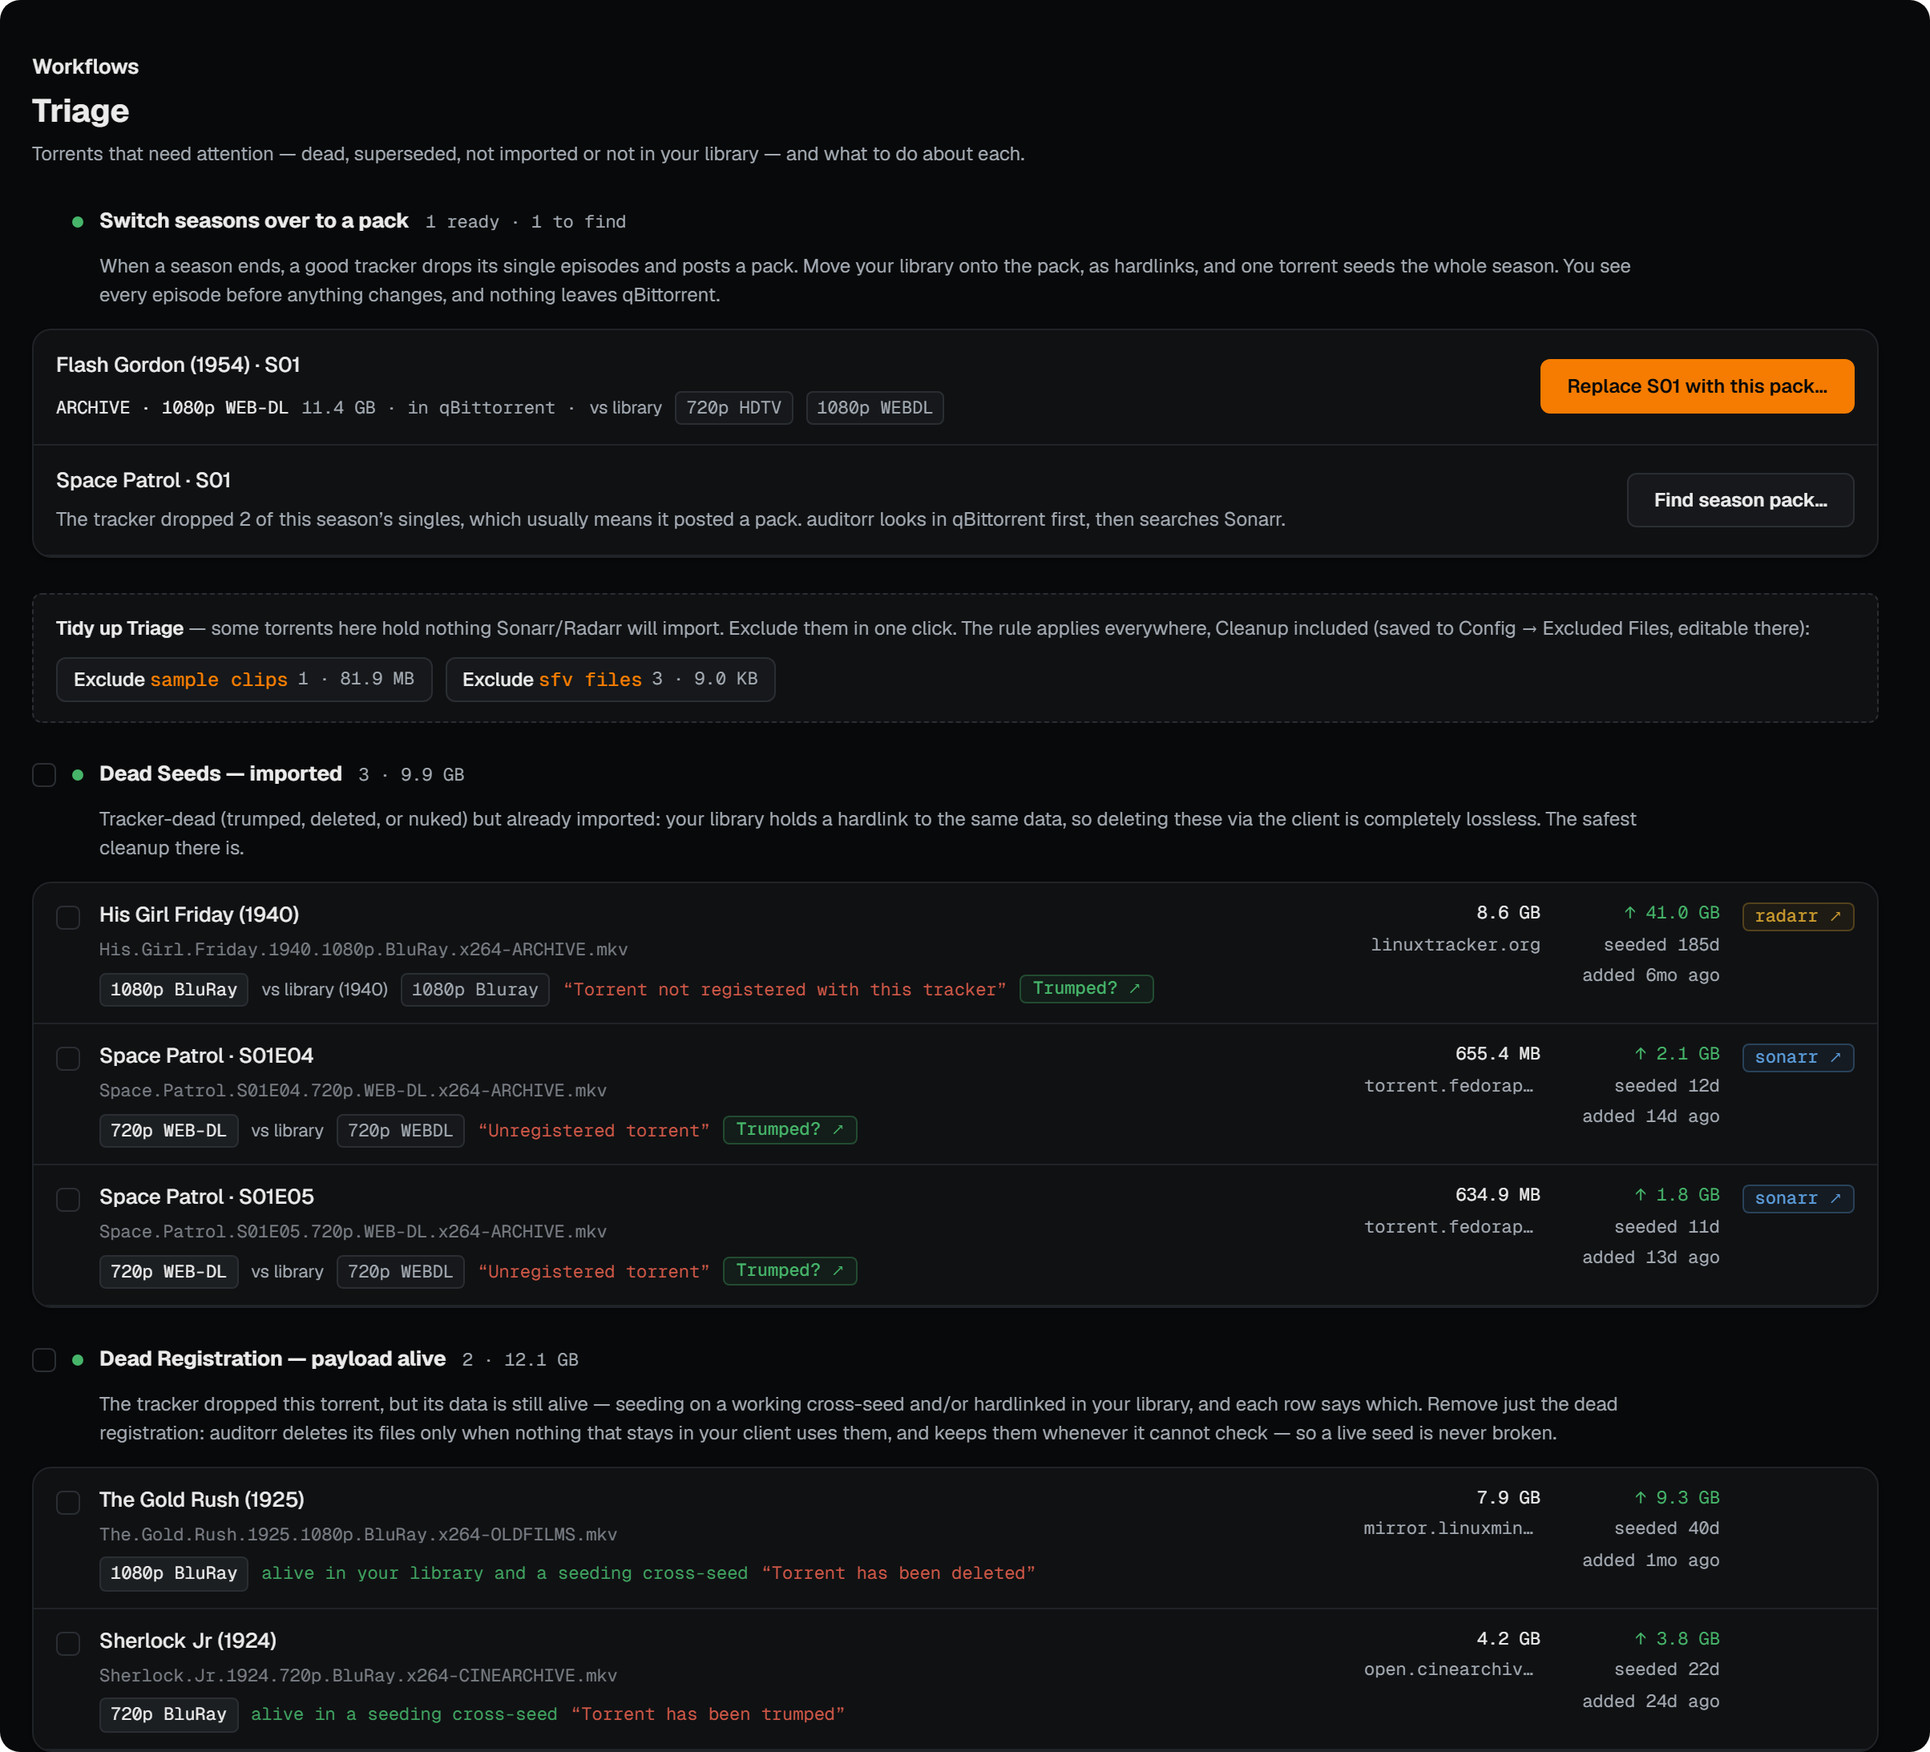
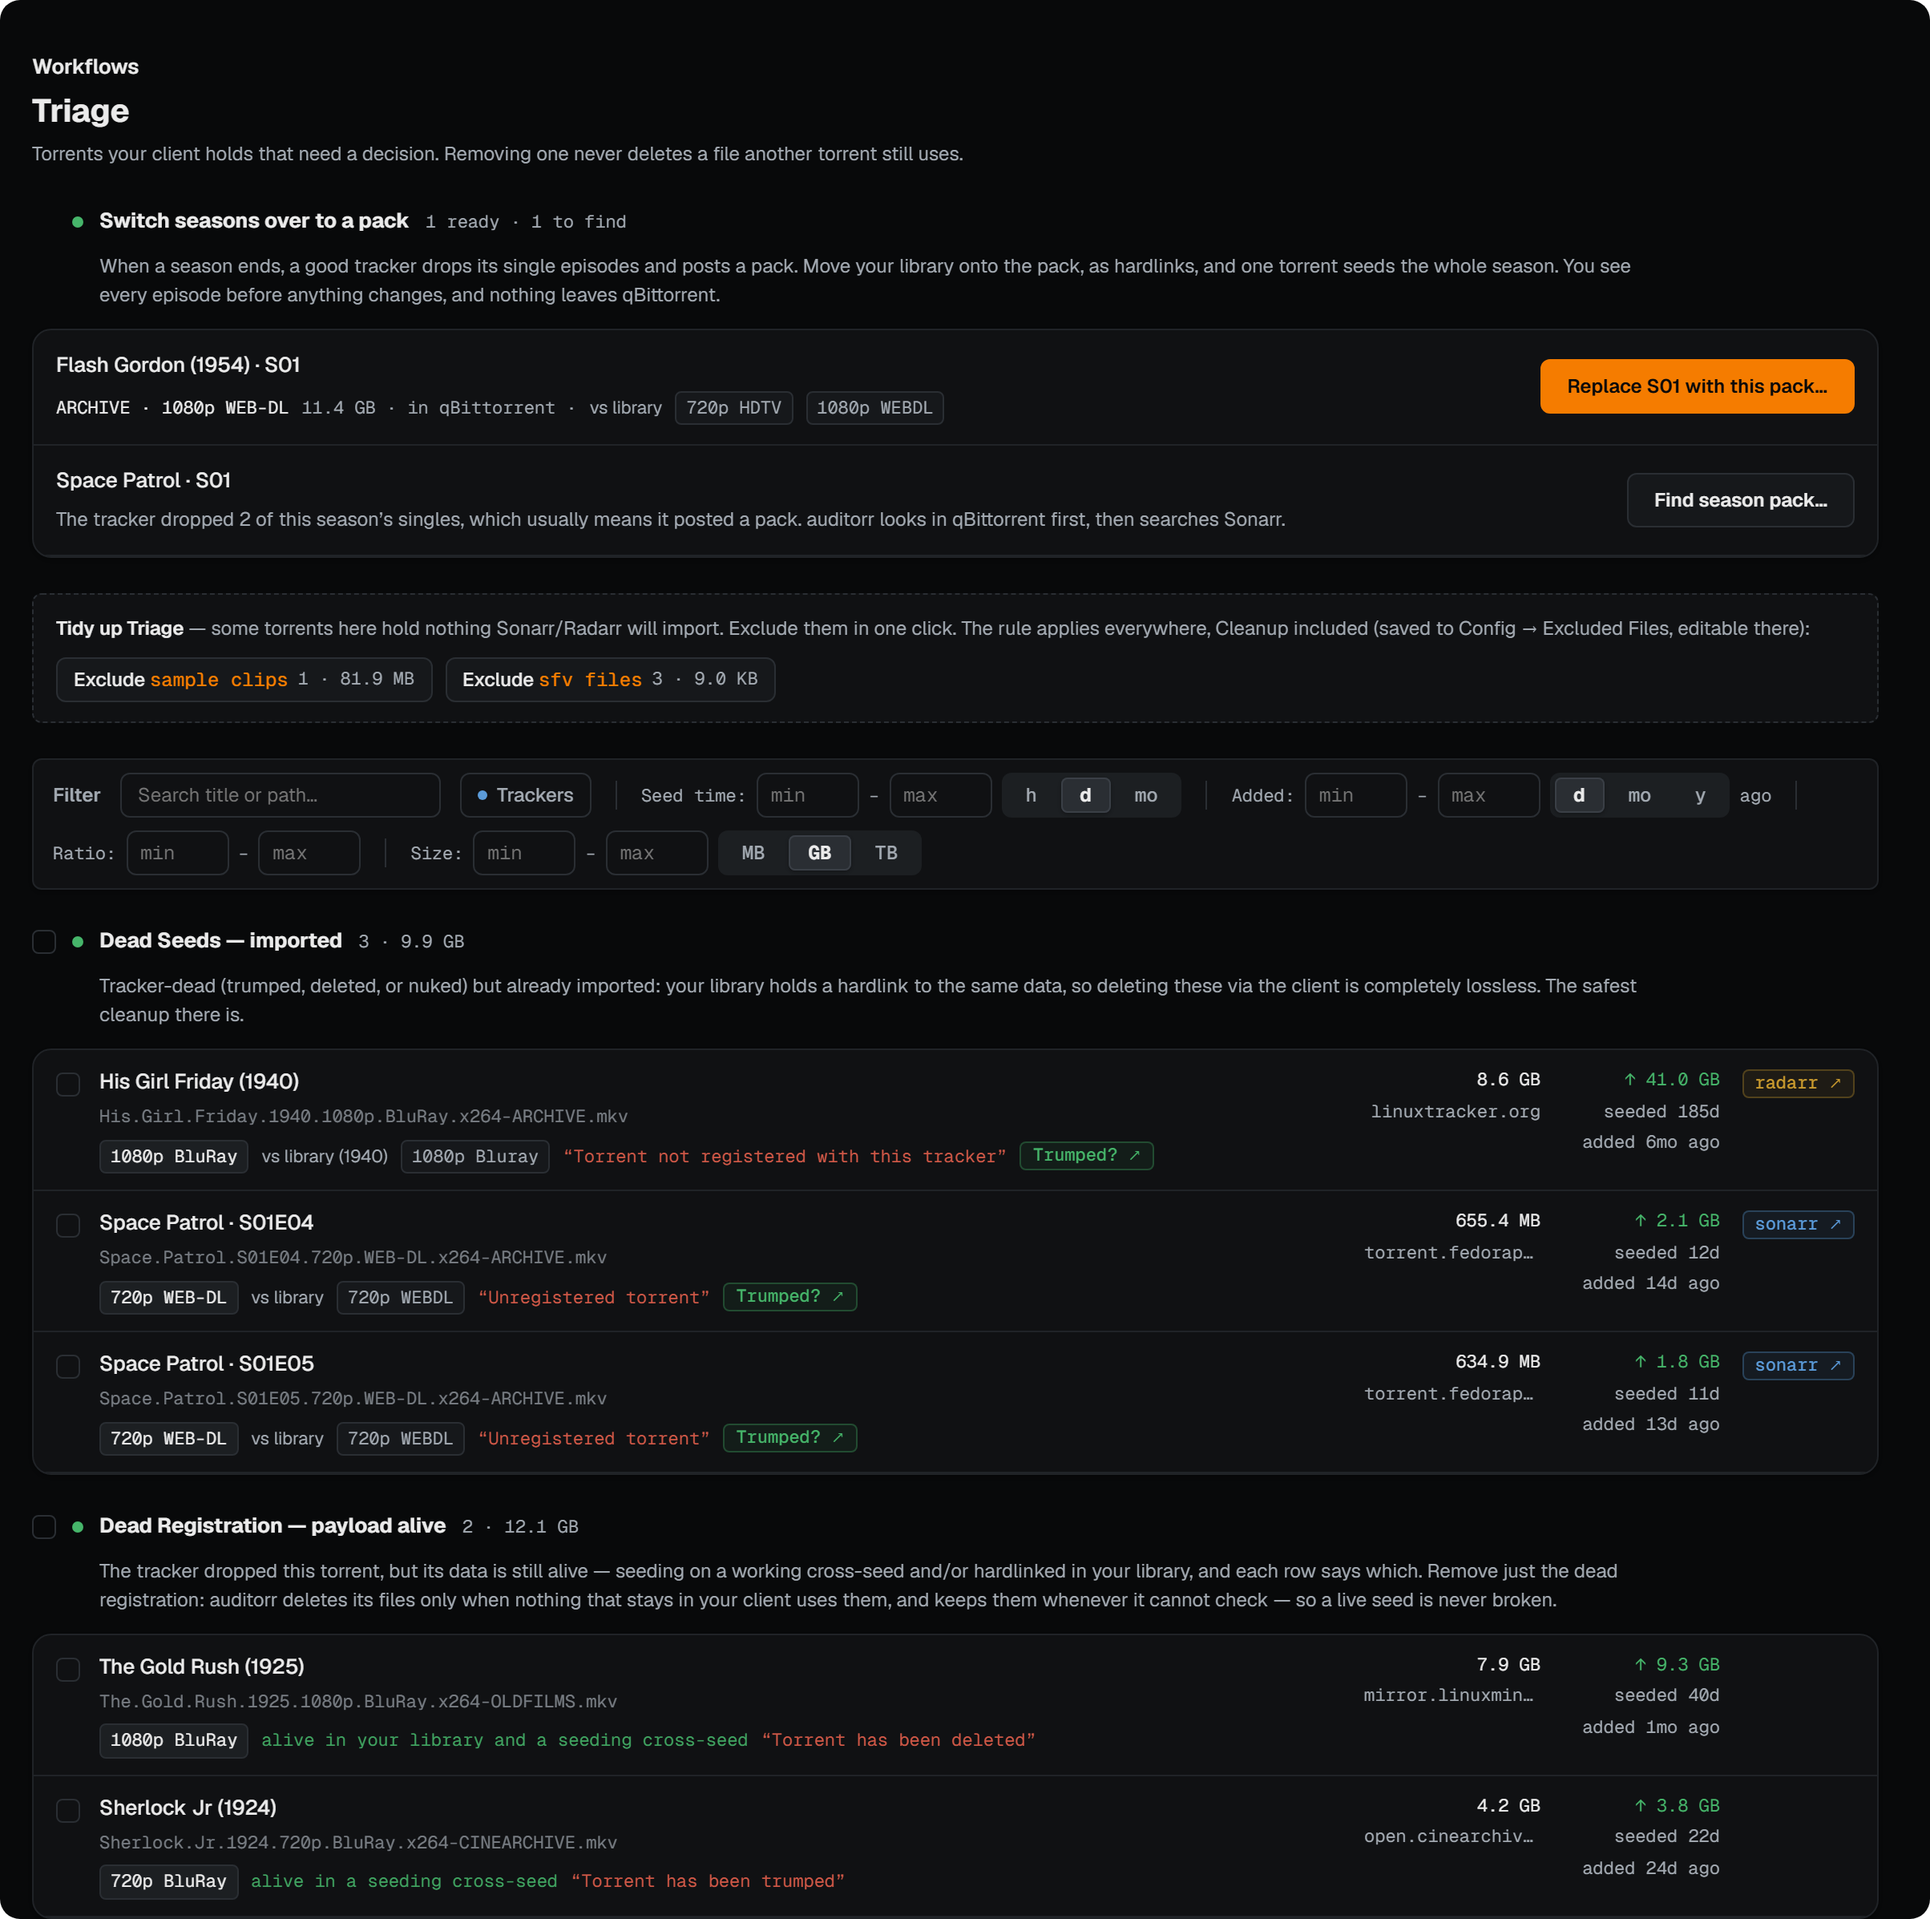
Prep for 1.8.2

diff --git a/app.py b/app.py
@@ -58,7 +58,7 @@ from debug import (
 logging.basicConfig(level=logging.INFO, format='%(asctime)s [%(levelname)s] %(message)s')
 log = logging.getLogger(__name__)
 
-APP_VERSION = "1.8.1"
+APP_VERSION = "1.8.2"
 
 # Keep the last ~400 log records in memory for /api/debug/report
 install_ring_buffer()

diff --git a/README.md b/README.md
@@ -19,12 +19,11 @@ Built to stay light on memory, it runs on **500+ TB** libraries.
 
 ---
 
-## What's new in 1.8.1
+## What's new in 1.8.2
 
-- **Switch a finished season over to one pack** - Triage now opens with the seasons you can move onto a single pack. Replace from a pack already in your client, or find one through Sonarr when the tracker has dropped the single episodes. Each episode is hardlinked into your library, and a better library file stays on disk wherever another torrent still holds it. [Full list](CHANGELOG.md).
-- **Force import a lower release** - over a movie or a single episode, when you'd rather seed that release. *Trigger Rescan* is now *Retry import*, and it's offered only where Sonarr / Radarr can accept the file.
-- **Fewer false rows** - an imported torrent's `.nfo`, artwork and samples no longer put it in Triage. Cleanup now also lists leftover hardlinks and empty folders, names any folder it couldn't check, and ignores `.DS_Store` and NAS clutter.
-- **Safety fixes** - a qBittorrent that qui can't reach no longer makes its torrents look deleted, removals reach every qui instance, Backfill and Trumped no longer offer Usenet releases, and a scan that couldn't reach your trackers no longer shows terabytes of upload. The debug report no longer includes your server addresses.
+- **Filter Triage and Cleanup** - narrow either list by search, size and age, and Triage also by tracker, seed time and ratio. An action only touches the rows you can see. Contributed by [OrbitMPGH](https://github.com/OrbitMPGH). [Full list](CHANGELOG.md).
+- **A readable page width** - on a large monitor, Config → Appearance can keep pages to a laptop's width, so a row's title and its details stay together. Also from OrbitMPGH.
+- **Fixes** - messages, Import Jobs and the scan card stack instead of covering each other, a download's badge sits on the workflow that started it, and a crowded action bar wraps instead of pushing its last button out.
 
 Upgrading needs no configuration changes. From 1.7.0 or earlier? 1.7.1 [closed off-LAN API access by default](docs/remote-access.md) - LAN is unaffected.
 

diff --git a/CHANGELOG.md b/CHANGELOG.md
@@ -1,6 +1,8 @@
 # Changelog
 
-## Unreleased
+## v1.8.2 — 2026-11-05
+
+Upgrading needs no configuration changes.
 
 ### Features
 
@@ -13,6 +15,10 @@
 - **Triage's header had a Trumped link that every dead seed already has.** Its count was the number of dead seeds, labelled *Trumped*, and it opened an empty Trumped page. Each dead seed's own *Trumped? ↗* opens it with the release filled in, so the header link is gone. The page description is shorter too: the sections already name the verdicts, so it now says what a removal keeps.
 - **Messages, Import Jobs and the scan progress card covered each other at the bottom right.** All three appeared in the same spot. A Trumped grab opens Import Jobs and reports its result at the same moment, so the message sat on top of the panel for its first few seconds, and the scan that follows the import covered the panel completely. They now stack: Import Jobs at the bottom, the scan card above it, and messages above both. Each one moves down when one below it closes.
 - **A large selection squeezed the bar at the bottom of the workflow pages.** When Triage offered six or seven actions, the selection summary wrapped to one word per line and the last button was pushed out of the bar. The buttons now move to their own row when they don't fit beside the summary. Contributed by **OrbitMPGH** in [#27](https://github.com/thrill-burn/auditorr/pull/27).
+
+### Known issues
+
+- **Rounds can credit a dead torrent you didn't touch.** If a scan runs while a dead torrent's tracker can't be read, because your client just restarted or the tracker is down, the torrent stops reading as dead for that scan. It drops off Triage until the next scan, and Rounds' Shoveler count goes up and stays up. Nothing is deleted, and a later release will fix it.
 
 ## v1.8.1 — 2026-10-26
 

diff --git a/ROADMAP.md b/ROADMAP.md
@@ -178,6 +178,12 @@ Every workflow that deletes, hardlinks or replaces a file was reviewed end to en
 - **Upload stats** — a scan whose tracker calls failed is left out of the per-tracker series instead of reading as terabytes of upload
 - **Import Jobs progress** — read from the arr queue's `size`/`sizeleft`, a download counted once
 
+### Shipped in v1.8.2
+- **List filters (#28, OrbitMPGH)** — Triage and Cleanup filter by search, tracker, seed time, age, ratio and size; every action and select-all reads visible rows only, and narrowing a filter drops hidden rows from the selection
+- **Readable page width (#27, OrbitMPGH)** — opt-in under Config → Appearance, per browser; every page but Config and Rounds follows it, and the workflow action bar wraps
+- **Bottom-right cards stack** — messages, Import Jobs and the scan card no longer cover each other
+- **Download badges** — the sidebar's ↓ count sits on the workflow that started the download
+
 ---
 
 ## Future Ideas
